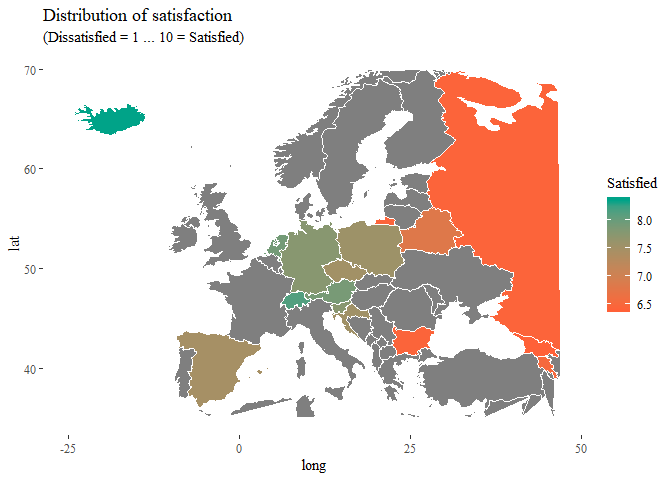
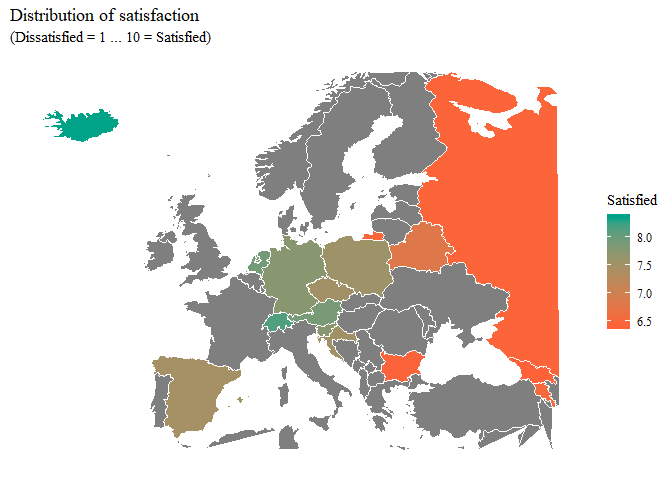
deelte axis labels

diff --git a/README.md b/README.md
@@ -48,11 +48,11 @@ evs_map <- world %>%
 
 
 theme_info <- 
+      theme_tufte() +
   theme(axis.line = element_blank(), axis.text.x = element_blank(),
           axis.text.y = element_blank(), axis.ticks = element_blank(),
           axis.title.x = element_blank(),
-          axis.title.y = element_blank()) +
-    theme_tufte() 
+          axis.title.y = element_blank()) 
 ```
 
 ``` r
